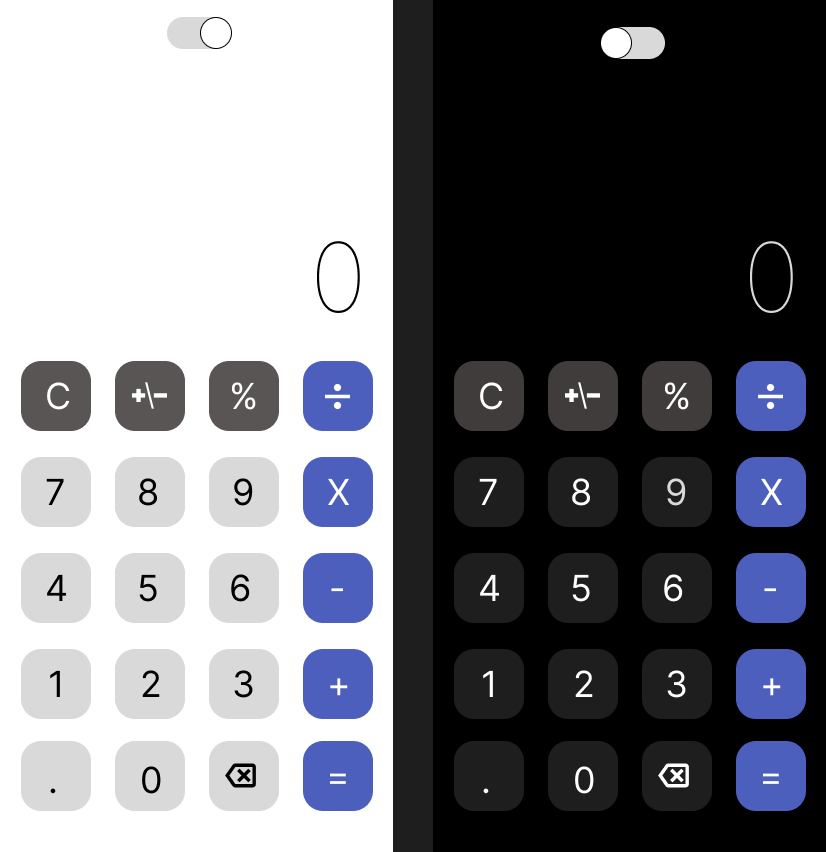
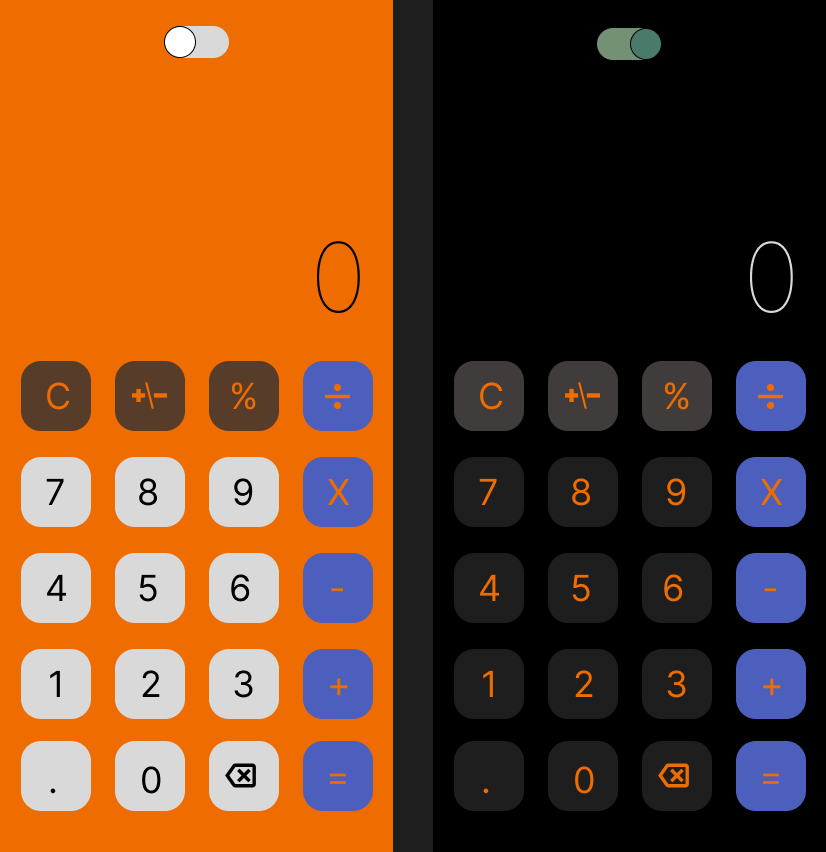
2

diff --git a/src/styles/GlobalStyles.tsx b/src/styles/GlobalStyles.tsx
@@ -7,7 +7,7 @@ export const Styles = StyleSheet.create({
         width: 72,
         height: 72,
         borderRadius: 24,
-        backgroundColor: myColors.blue,
+        backgroundColor: myColors.black,
         justifyContent: "center",
         alignItems: "center",
         margin: 8,
@@ -19,7 +19,7 @@ export const Styles = StyleSheet.create({
         backgroundColor: myColors.btnDark,
         justifyContent: "center",
         alignItems: "center",
-        margin: 8,
+        margin: 8, 
     },
     btnLight: {
         width: 72,
@@ -41,7 +41,7 @@ export const Styles = StyleSheet.create({
     },
     smallTextLight: {
         fontSize: 32,
-        color: myColors.white,
+        color: myColors.orange,
     },
     smallTextDark: {
         fontSize: 32,

diff --git a/App.tsx b/App.tsx
@@ -24,7 +24,7 @@ export default function App() {
 const styles = StyleSheet.create({
   container: {
     flex: 1,
-    backgroundColor: myColors.light,
+    backgroundColor: myColors.orange,
     alignItems: 'center',
     justifyContent: 'flex-start',
   },

diff --git a/src/styles/Colors.ts b/src/styles/Colors.ts
@@ -6,6 +6,7 @@ export const myColors = {
     btnDark: '#2E2F38',
     gray: '#747477',
     black: '#000000',
+    orange: '#EF6C00',
     white: '#FFFFFF', 
     result: '#46D5B2',
 }
